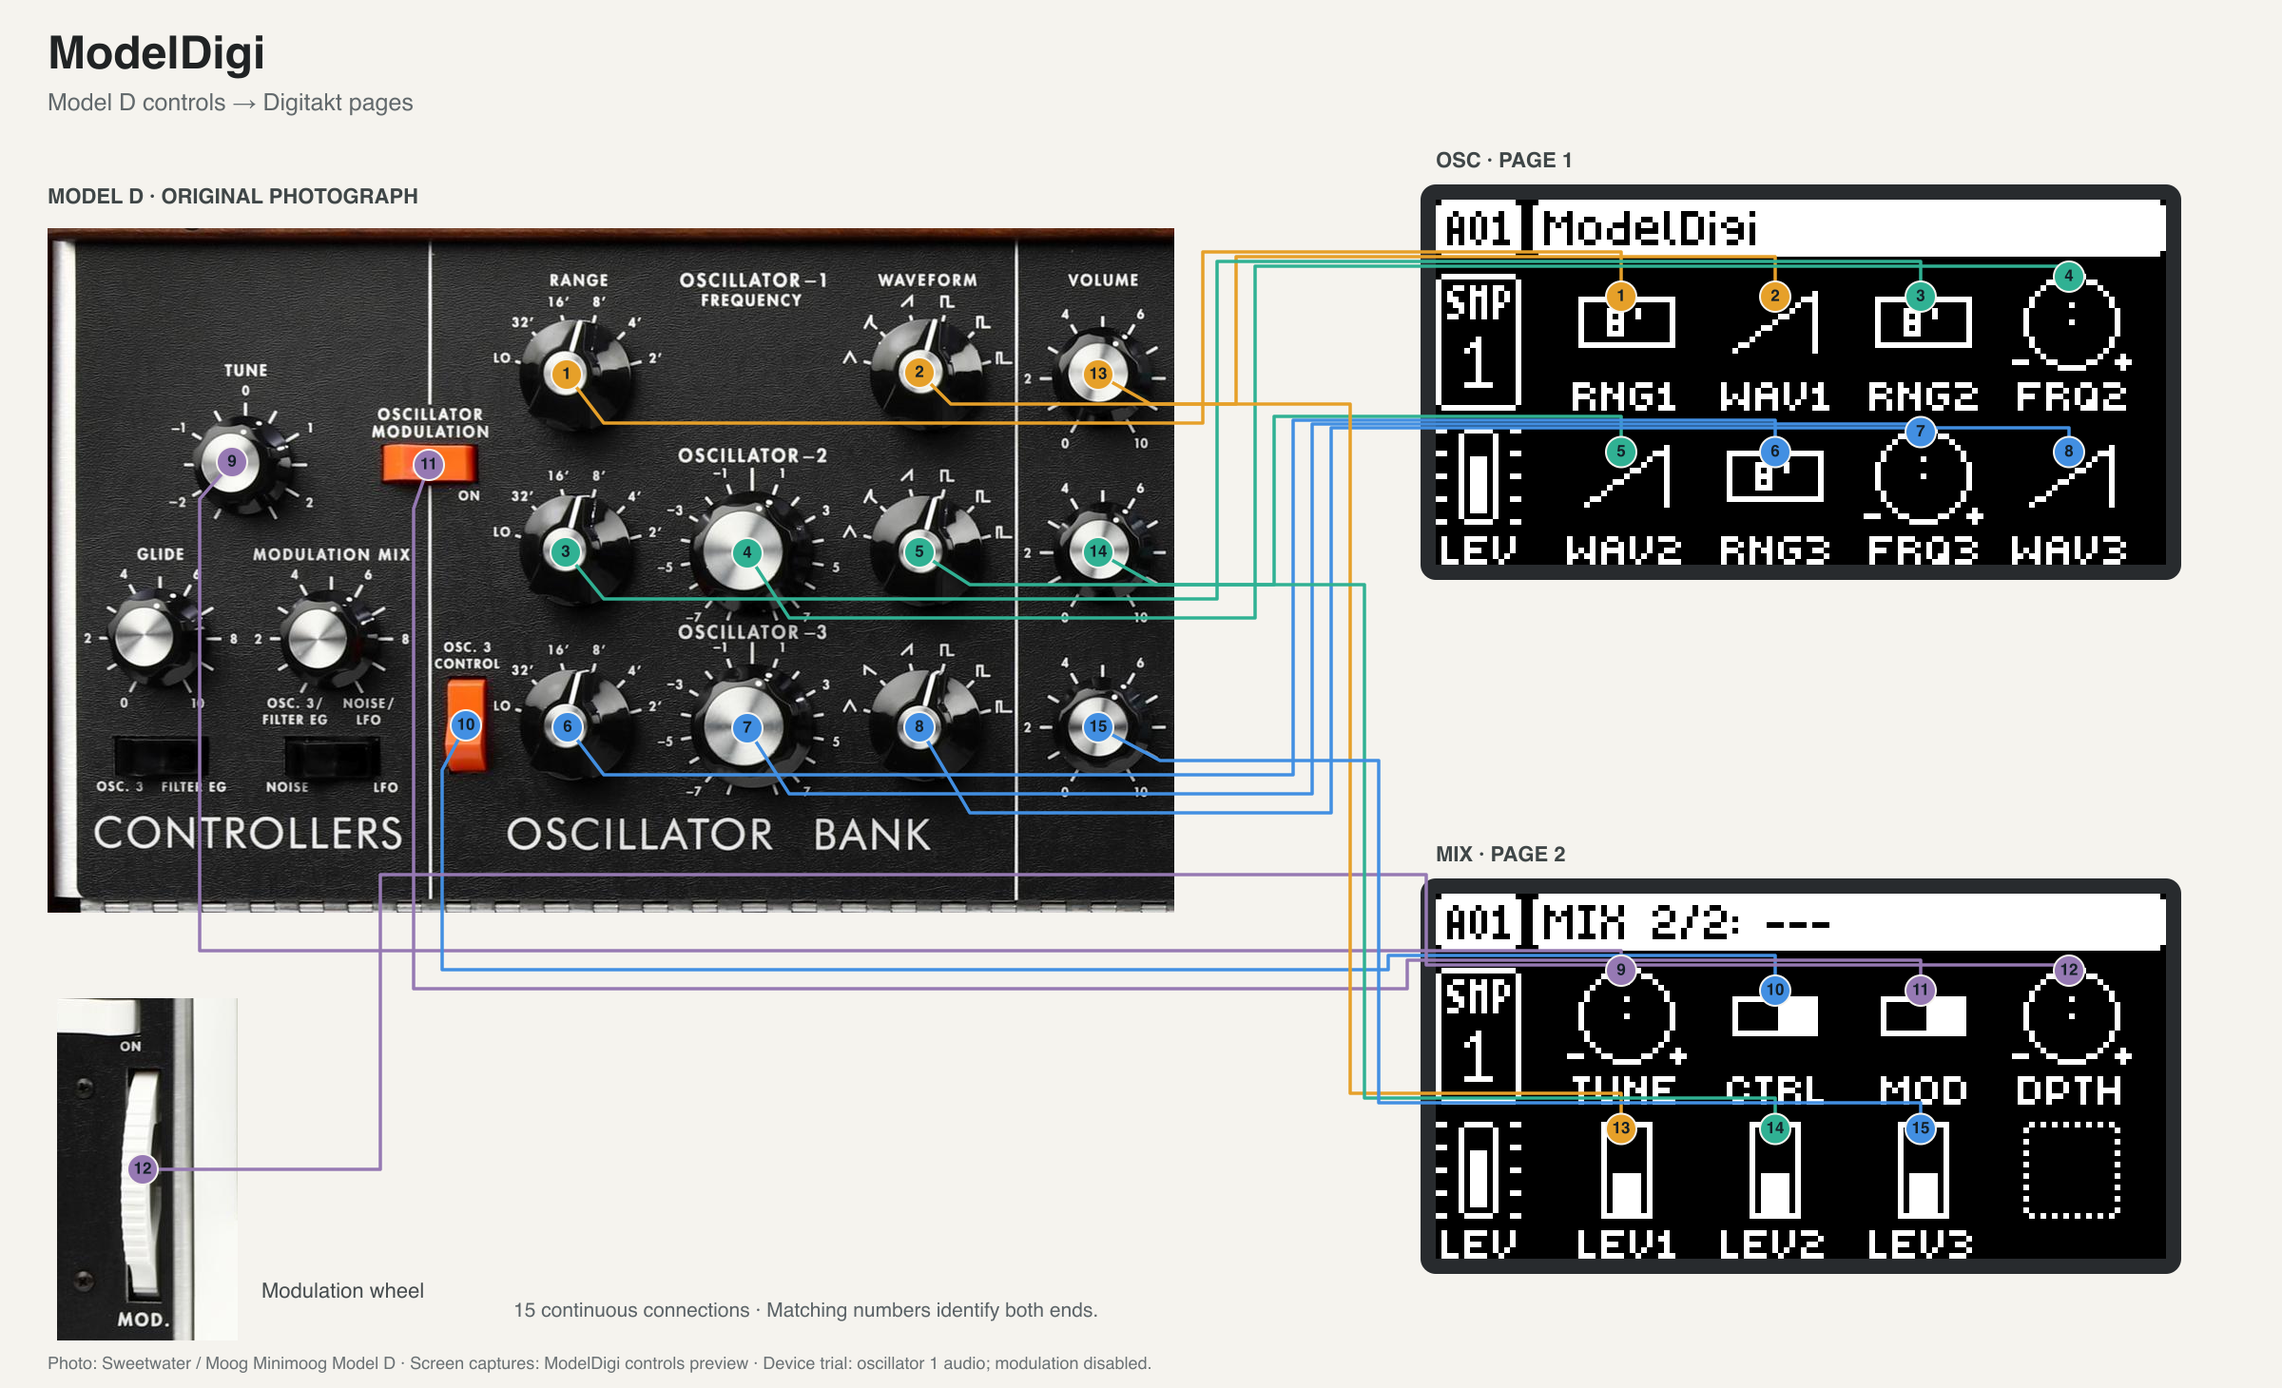
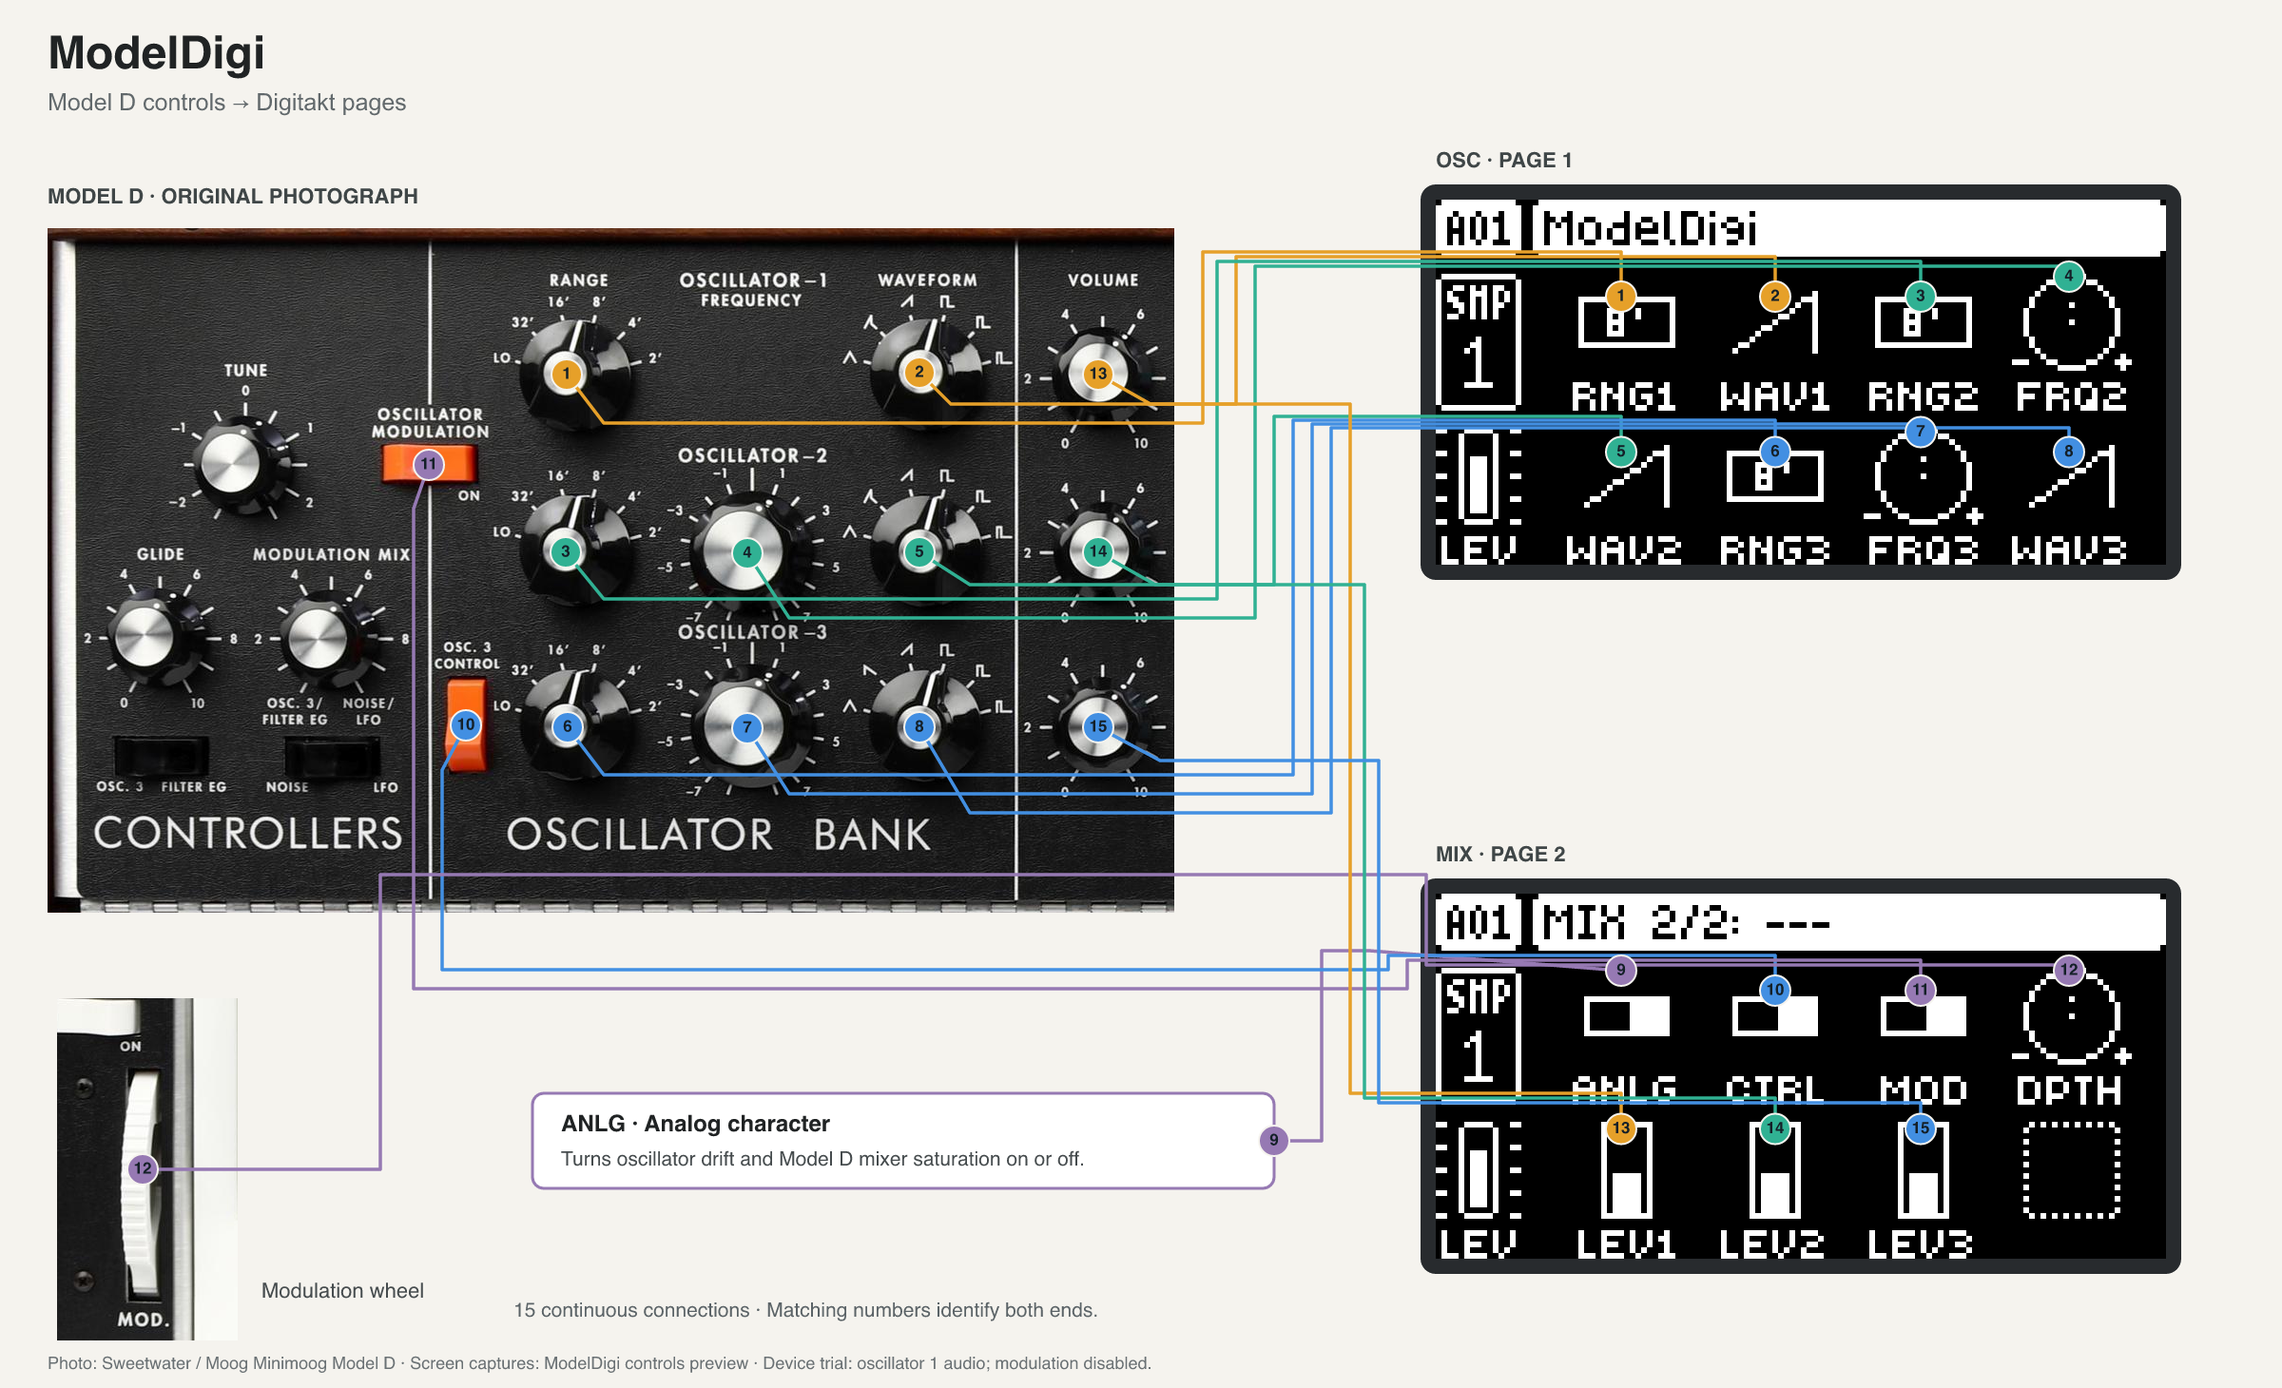
Replace Tune with an analog character switch (#69)
The MIX page's first control, extra value 0 (sound slot 46, CC 24),
was a +-100 cent master tune. It becomes ANLG, a switch that turns the
device firmware's analog character on or off per sound. It flips at
64 like CTRL and MOD, draws the same switch, and defaults to on.

With the switch off, the analog build renders exactly what the clean
build does: drift keeps wandering but is not applied, and the mixer
and DC blocker are bypassed and reset, so turning it on starts them
as a fresh bank does. The test task now compares the two renderers
byte for byte. The clean build ignores the switch.

Existing sounds lose their tuning. One saved at or above centre, the
old default, loads with the analog character on.

The README image draws ANLG's line from a box describing it instead
of from the Model D's Tune knob.

https://github.com/simonjohansson/ModelDigi/issues/68

diff --git a/tests/test_digitakt.c b/tests/test_digitakt.c
@@ -129,9 +129,9 @@ static void descriptor(void)
 {
     static const uint8_t shown[2][8] = {
         { MD_RNG1, MD_WAV1, MD_RNG2, MD_FRQ2, MD_WAV2, MD_RNG3, MD_FRQ3, MD_WAV3 },
-        { MD_TUNE, MD_CTRL, MD_MOD, MD_DPTH, MD_LEV1, MD_LEV2, MD_LEV3, CM_SRC_BLANK },
+        { MD_ANLG, MD_CTRL, MD_MOD, MD_DPTH, MD_LEV1, MD_LEV2, MD_LEV3, CM_SRC_BLANK },
     };
-    static const int16_t def[MD_VALUES] = { 3, 2, 3, 64, 2, 3, 64, 2, 64, 127, 0, 0, 127, 0, 0 };
+    static const int16_t def[MD_VALUES] = { 3, 2, 3, 64, 2, 3, 64, 2, 127, 127, 0, 0, 127, 0, 0 };
     assert(modeldigi_machine.id == 42 && modeldigi_machine.render == 42 && modeldigi_machine.params == 3);
     assert(page()->base.abi == cm_ui_v32 && page()->base.page_from == 3 && page()->page_count == 2);
     for (int p = 0; p < 2; ++p) {
@@ -144,7 +144,7 @@ static void descriptor(void)
         assert((n->flags & (CM_RANGE | CM_DEFAULT)) == (CM_RANGE | CM_DEFAULT) && !(n->flags & CM_HIDDEN));
         assert(n->min == 0 && n->max == (selector ? 5 << 8 : 0x7f00) && n->def == def[k] << 8);
         assert(n->name && strlen(n->name) <= 4 && n->lname && n->look == (selector || k == MD_FRQ2 || k == MD_FRQ3 ? 0x84 : 0x86));
-        int stock_dial = k == MD_FRQ2 || k == MD_FRQ3 || k == MD_TUNE || k == MD_DPTH;
+        int stock_dial = k == MD_FRQ2 || k == MD_FRQ3 || k == MD_DPTH;
         assert(!!(n->flags & CM_DRAW) == !stock_dial);
         assert(!!n->draw == !stock_dial);
         assert(!(n->flags & CM_NOT_SAMPLE) == (k != MD_FRQ2));   /* knob D */
@@ -161,9 +161,9 @@ static void decoding(void)
         near_cents(p.frequency_q16_16[o], 261.6256);
     assert(p.waveform[0] == 3 && p.waveform[1] == 3 && p.waveform[2] == 3);
     assert(p.level[0] == 65535 && p.level[1] == 0 && p.level[2] == 0);
-    assert(!p.modulation_enabled && p.modulation_depth_q16_16 == 0 && p.osc3_control);
+    assert(!p.modulation_enabled && p.modulation_depth_q16_16 == 0 && p.osc3_control && p.analog);
 
-    /* Ranges, note and tune. */
+    /* Ranges and note. */
     static const double range_ratio[6] = { 0.0077792, 0.25, 0.5, 1, 2, 4 };
     for (int r = 0; r < 6; ++r) {
         v[MD_RNG1] = (int16_t)(r << 8);
@@ -171,12 +171,10 @@ static void decoding(void)
         near_cents(p.frequency_q16_16[0], 440 * range_ratio[r]);
     }
     defaults(v);
-    v[MD_TUNE] = 127 << 8;
+    v[MD_ANLG] = 63 << 8;
     modeldigi_decode(v, 60 << 16, &p);
-    near_cents(p.frequency_q16_16[0], 261.6256 * pow(2, 100 / 1200.0));
-    v[MD_TUNE] = 0;
-    modeldigi_decode(v, 60 << 16, &p);
-    near_cents(p.frequency_q16_16[0], 261.6256 * pow(2, -100 / 1200.0));
+    assert(!p.analog);
+    near_cents(p.frequency_q16_16[0], 261.6256);
 
     /* FRQ: fine near unison, exact semitones, symmetric, interpolated between steps. */
     static const struct { int position; double cents; } frq[] = {
@@ -244,7 +242,7 @@ static void text(void)
         { MD_TEXT_WAVE12, 1 << 8, 0, "TRSW" }, { MD_TEXT_WAVE3, 1 << 8, 1, "REVERSE SAW" },
         { MD_TEXT_FRQ, 64 << 8, 0, "0.0" }, { MD_TEXT_FRQ, 67 << 8, 0, "+2.0" },
         { MD_TEXT_FRQ, 67 << 8, 1, "+2.04c" }, { MD_TEXT_FRQ, 127 << 8, 0, "+700" },
-        { MD_TEXT_FRQ_WIDE, 1 << 8, 1, "-3500c" }, { MD_TEXT_FRQ, 127 << 8, 1, "+700.0c" }, { MD_TEXT_TUNE, 0, 0, "-100" },
+        { MD_TEXT_FRQ_WIDE, 1 << 8, 1, "-3500c" }, { MD_TEXT_FRQ, 127 << 8, 1, "+700.0c" },
         { MD_TEXT_SWITCH, 63 << 8, 0, "OFF" }, { MD_TEXT_SWITCH, 64 << 8, 0, "ON" },
         { MD_TEXT_DEPTH, 127 << 8, 1, "1.508 OCT" }, { MD_TEXT_DEPTH, 0, 0, "0.00" },
     };

diff --git a/machines/digitakt/controls.c b/machines/digitakt/controls.c
@@ -104,11 +104,6 @@ int modeldigi_frq_anchor(int32_t value, int wide)
     return value == semitone_value(nearest, wide);
 }
 
-static int32_t tune_cents(int32_t v)
-{
-    return clamp((clamp(v, 0, TOP) - CENTER) * 625 / 1008, -10000, 10000);
-}
-
 static int32_t octaves(int32_t cx100)
 {
     return cx100 * 1024 / 1875;   /* cents x 100 to octaves, Q16 */
@@ -155,10 +150,10 @@ void modeldigi_decode(const int16_t values[MD_VALUES], int32_t note, modeldigi_o
 {
     static const uint8_t range_at[3] = { MD_RNG1, MD_RNG2, MD_RNG3 }, wave_at[3] = { MD_WAV1, MD_WAV2, MD_WAV3 };
     int control = values[MD_CTRL] >= CENTER;
-    int32_t keyed = (clamp(note, 0, 127 << 16) - (60 << 16)) / 12, tune = octaves(tune_cents(values[MD_TUNE]));
+    int32_t keyed = (clamp(note, 0, 127 << 16) - (60 << 16)) / 12;
     for (int v = 0; v < 3; ++v) {
         int range = selector(values[range_at[v]]), wave = selector(values[wave_at[v]]);
-        int32_t oct = range_q16[range] + tune + keyed;
+        int32_t oct = range_q16[range] + keyed;
         uint32_t base = BASE_HZ;
         p->waveform[v] = v < 2 ? wave12[wave] : wave3[wave];
         p->level[v] = level(values[MD_LEV1 + v]);
@@ -171,15 +166,16 @@ void modeldigi_decode(const int16_t values[MD_VALUES], int32_t note, modeldigi_o
             int32_t wide = 5 * modeldigi_frq_cents(values[MD_FRQ3]);
             if (range == 0) {
                 base = ONE_HZ;
-                oct = lo_free_log2(wide) + tune;
+                oct = lo_free_log2(wide);
             } else {
-                oct = range_q16[range] + tune - (2 << 16) + octaves(wide);
+                oct = range_q16[range] - (2 << 16) + octaves(wide);
             }
         }
         p->frequency_q16_16[v] = scale_hz(base, oct);
     }
     p->modulation_depth_q16_16 = depth(values[MD_DPTH]);
     p->modulation_enabled = values[MD_MOD] >= CENTER;
+    p->analog = values[MD_ANLG] >= CENTER;
     p->osc3_control = control;
 }
 
@@ -244,7 +240,6 @@ int modeldigi_text(int kind, int32_t v, int popup, char *buf)
     case MD_TEXT_WAVE3: put_text(buf, (popup ? wave3_long : wave3_short)[selector(v)]); break;
     case MD_TEXT_FRQ: cents_text(buf, modeldigi_frq_cents(v), popup); break;
     case MD_TEXT_FRQ_WIDE: cents_text(buf, 5 * modeldigi_frq_cents(v), popup); break;
-    case MD_TEXT_TUNE: cents_text(buf, tune_cents(v), popup); break;
     case MD_TEXT_SWITCH: put_text(buf, v >= CENTER ? "ON" : "OFF"); break;
     default: {
         int32_t milli = (int32_t)(depth(v) * 1000 / 65536);

diff --git a/dsp/oscillator.c b/dsp/oscillator.c
@@ -425,7 +425,7 @@ void modeldigi_osc_render(modeldigi_osc_state *state, const modeldigi_osc_params
             drift_step(state);
         if (n > left)
             n = left;
-        for (unsigned v = 0; v < 3; ++v)
+        for (unsigned v = 0; v < 3 && params->analog; ++v)
             base[v] = modulate(step[v], state->drift[v] >> 8);
         state->frame += n;
 #endif
@@ -440,8 +440,15 @@ void modeldigi_osc_render(modeldigi_osc_state *state, const modeldigi_osc_params
         for (unsigned v = 0; v < 2; ++v)
             run(&c[v], &state->phase[v], &state->last[v], base[v], modulated ? octaves : 0, 0, 0, 0, w, n);
 #ifdef MODELDIGI_ANALOG
-        for (unsigned i = 0; i < n; ++i)
-            output[done + i] = dc_block(state, mixer(state, w[i]));
+        if (params->analog) {
+            for (unsigned i = 0; i < n; ++i)
+                output[done + i] = dc_block(state, mixer(state, w[i]));
+        } else {
+            /* Off is the clean output; turning it on starts the mixer as a fresh bank does. */
+            for (unsigned i = 0; i < n; ++i)
+                output[done + i] = w[i];
+            state->mix_in = state->mix_residue = state->dc_in = state->dc_out = 0;
+        }
 #else
         for (unsigned i = 0; i < n; ++i)
             output[done + i] = w[i];

diff --git a/machines/digitakt/modeldigi.c b/machines/digitakt/modeldigi.c
@@ -65,7 +65,6 @@ TEXT(range_text, MD_TEXT_RANGE)
 TEXT(wave12_text, MD_TEXT_WAVE12)
 TEXT(wave3_text, MD_TEXT_WAVE3)
 TEXT(frq2_text, MD_TEXT_FRQ)
-TEXT(tune_text, MD_TEXT_TUNE)
 TEXT(switch_text, MD_TEXT_SWITCH)
 TEXT(depth_text, MD_TEXT_DEPTH)
 
@@ -89,7 +88,7 @@ static int32_t frq3_text(char *buf, int32_t value, int32_t ctx, int32_t machine)
 
 static const struct cm_src_page pages[] = {
     { .title = "OSC 1/2", .parameter = { MD_RNG1, MD_WAV1, MD_RNG2, MD_FRQ2, MD_WAV2, MD_RNG3, MD_FRQ3, MD_WAV3 } },
-    { .title = "MIX 2/2", .parameter = { MD_TUNE, MD_CTRL, MD_MOD, MD_DPTH, MD_LEV1, MD_LEV2, MD_LEV3, CM_SRC_BLANK } },
+    { .title = "MIX 2/2", .parameter = { MD_ANLG, MD_CTRL, MD_MOD, MD_DPTH, MD_LEV1, MD_LEV2, MD_LEV3, CM_SRC_BLANK } },
 };
 
 static const struct cm_ui32 modeldigi_page = {
@@ -109,7 +108,7 @@ static const struct cm_ui32 modeldigi_page = {
         },
     },
     .extra = {
-        KNOB("TUNE", "Tune", 127, 64, 0, tune_text, 0),
+        KNOB("ANLG", "Analog", 127, 127, CM_DRAW, switch_text, modeldigi_draw_switch),
         KNOB("CTRL", "Osc 3 Control", 127, 127, CM_DRAW, switch_text, modeldigi_draw_switch),
         KNOB("MOD", "Modulation", 127, 0, CM_DRAW, switch_text, modeldigi_draw_switch),
         KNOB("DPTH", "Mod Depth", 127, 0, 0, depth_text, 0),

diff --git a/machines/digitakt/controls.h b/machines/digitakt/controls.h
@@ -8,13 +8,13 @@
 /* The fifteen stored values, in storage order; page 1 shows 0-7, page 2 8-14. */
 enum {
     MD_RNG1, MD_WAV1, MD_RNG2, MD_FRQ2, MD_WAV2, MD_RNG3, MD_FRQ3, MD_WAV3,
-    MD_TUNE, MD_CTRL, MD_MOD, MD_DPTH, MD_LEV1, MD_LEV2, MD_LEV3, MD_VALUES
+    MD_ANLG, MD_CTRL, MD_MOD, MD_DPTH, MD_LEV1, MD_LEV2, MD_LEV3, MD_VALUES
 };
 
 /* Value-text kinds for the SRC page. */
 enum {
     MD_TEXT_RANGE, MD_TEXT_WAVE12, MD_TEXT_WAVE3, MD_TEXT_FRQ, MD_TEXT_FRQ_WIDE,
-    MD_TEXT_TUNE, MD_TEXT_SWITCH, MD_TEXT_DEPTH
+    MD_TEXT_SWITCH, MD_TEXT_DEPTH
 };
 
 /* values: 8.8 after locks and LFOs; note: the trig's note, 16.16. 32-bit arithmetic only. */

diff --git a/dsp/oscillator.h b/dsp/oscillator.h
@@ -13,6 +13,7 @@ typedef struct {
     uint32_t modulation_depth_q16_16; /* 0..2 octaves * 65536, not recorded amount */
     bool modulation_enabled;
     bool osc3_control;
+    bool analog; /* drift and mixer, in a build with MODELDIGI_ANALOG */
 } modeldigi_osc_params;
 
 /* Private layout: not a sound format or a stable ABI. */

diff --git a/tests/test_analog.c b/tests/test_analog.c
@@ -16,6 +16,7 @@ static modeldigi_osc_params bank(void)
     p.frequency_q16_16[2] = 1000u * 65536;
     p.waveform[0] = 3; p.waveform[1] = 4; p.waveform[2] = 0;
     p.level[0] = p.level[1] = p.level[2] = 40000;
+    p.analog = true;
     return p;
 }
 

diff --git a/docs/architecture.md b/docs/architecture.md
@@ -37,12 +37,12 @@ companion provides, and each page is stored where it is shown:
 | Page | A | B | C | D | E | F | G | H |
 |---|---|---|---|---|---|---|---|---|
 | OSC | Osc 1 range | Osc 1 wave | Osc 2 range | Osc 2 frequency | Osc 2 wave | Osc 3 range | Osc 3 frequency | Osc 3 wave |
-| MIX | Tune | Osc 3 control | Modulation | Mod depth | Osc 1 level | Osc 2 level | Osc 3 level | blank |
+| MIX | Analog | Osc 3 control | Modulation | Mod depth | Osc 1 level | Osc 2 level | Osc 3 level | blank |
 
 The OSC page uses MIDI CC 16–23 in the order above. The MIX page uses
-CC 24–30 in order: Tune, Control, Modulation, Depth, Level 1, Level 2 and
+CC 24–30 in order: Analog, Control, Modulation, Depth, Level 1, Level 2 and
 Level 3. Incoming selectors clamp to 0–5; all other controls use 0–127.
-The two switches flip at 64. Native track channels, auto channel and receive
+The three switches flip at 64. Native track channels, auto channel and receive
 settings still apply. A temporary local lookup hook adds the extra CCs only
 for ModelDigi audio tracks; the native lookup handles other machines, MIDI
 tracks, FX and unrelated controllers. A second hook supplies each control's
@@ -53,7 +53,8 @@ Approved stored meanings:
 - Oscillator 2/3 frequency: centre is unison; steps grow quadratically to
   exact semitones at ±1, then fall on every semitone to ±7 (0.23 cents is the
   first step). Oscillator 3 with CONTROL off sweeps five times as far.
-- Tune: ±100 cents, linear. Levels follow the sample level's square law;
+- Analog: on by default. It switches the device firmware's analog character
+  on or off; off renders the clean engine exactly. Levels follow the sample level's square law;
   zero mutes without stopping oscillator 3's modulation. Depth interpolates
   the recorded amount-to-depth points, reaching 1.509 octaves.
 - Pitch: 261.6256 Hz at note 60 and 8', octave ranges, and LO at the frozen

diff --git a/docs/model-d-oscillators.md b/docs/model-d-oscillators.md
@@ -226,9 +226,10 @@ The pinned SDK provides a 32-sample Q31 render event after track playback and
 before stock overdrive, at 48 kHz. Machine-pages 1.2 permits fifteen logical
 source values over two pages, which hold the whole control inventory: three
 waveform selectors, three ranges, three audio levels (zero mutes),
-oscillator 2/3 relative frequency, common tune, OSC 3 CONTROL, modulation
-depth and modulation enable. Combining level and mute is a deliberate device
-adaptation. Master tune is per machine instance, not global instrument tuning.
+oscillator 2/3 relative frequency, OSC 3 CONTROL, modulation depth and
+modulation enable, plus a switch for the device firmware's analog character.
+Combining level and mute is a deliberate device adaptation. There is no common
+tune control; notes move the whole bank in semitones.
 
 Device parameter decoding, note arbitration, pitch conversion, voice lifetime
 and UI belong to the wrapper, which consumes the host's note and pitch

diff --git a/README.md b/README.md
@@ -14,8 +14,8 @@ A Model D–style oscillator section for the **Digitakt mk1**.
 - The waveforms and modulation match measurements of an original Model D's
   oscillators, and are checked against them on a computer.
 - On the Digitakt, each oscillator drifts slightly in pitch, and the mixer
-  saturates like the Model D's when the levels are pushed. See
-  [Analog character](docs/analog.md).
+  saturates like the Model D's when the levels are pushed. A switch on each
+  sound turns this off. See [Analog character](docs/analog.md).
 
 ModelDigi currently supplies the oscillator section, rather than the complete
 Model D filter, envelopes and amplifier.

diff --git a/docs/analog.md b/docs/analog.md
@@ -6,6 +6,11 @@ emulator build the bank without it, so the clean oscillators remain what is
 compared with the Model D reference. With the layer compiled out, the engine
 is bit-identical to the clean engine.
 
+Each sound's Analog switch, on by default, turns the layer on or off. Off
+renders the clean engine exactly; drift keeps wandering unheard, so turning the
+layer back on resumes it. The mixer restarts as it does for a new bank, so
+switching can click when levels are high.
+
 ## Oscillator drift
 
 **Source readings.** The original operation guide asks for about ten minutes
